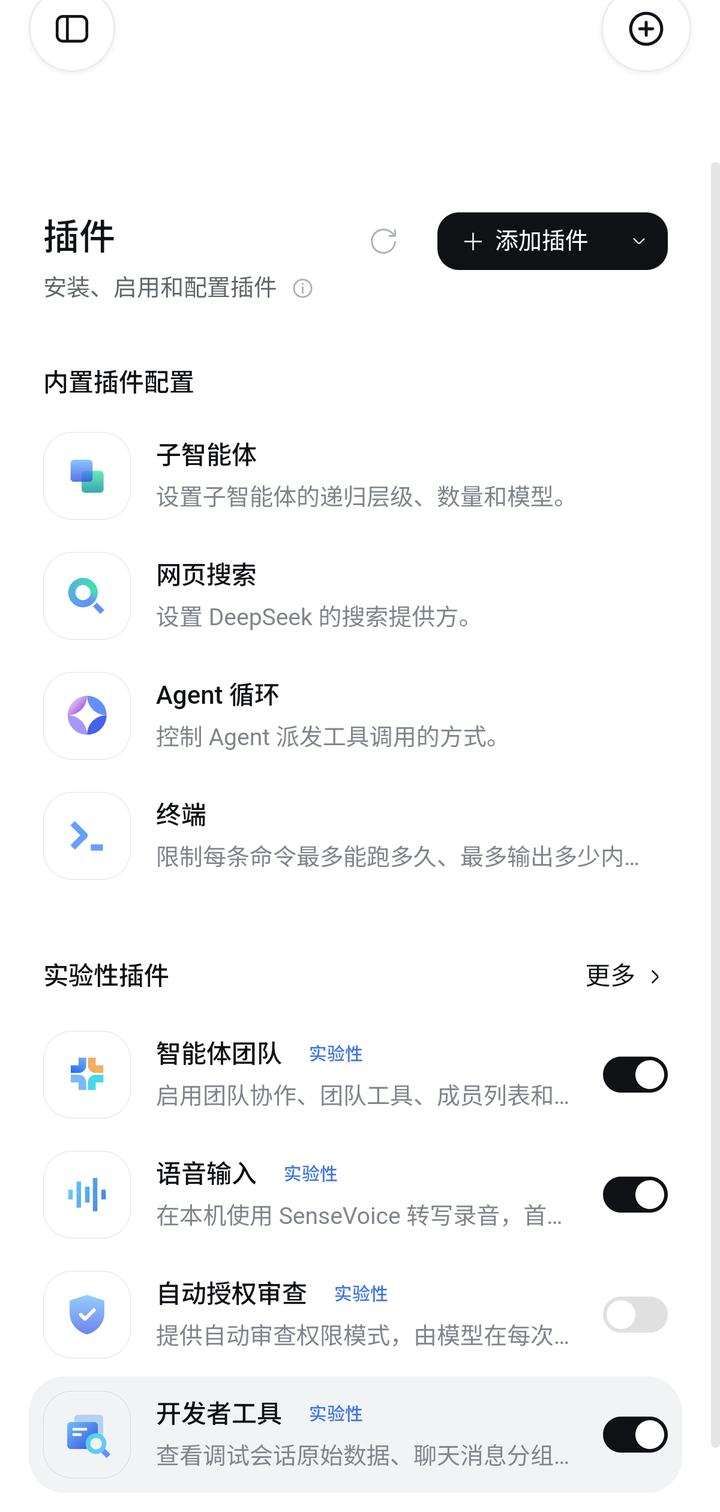
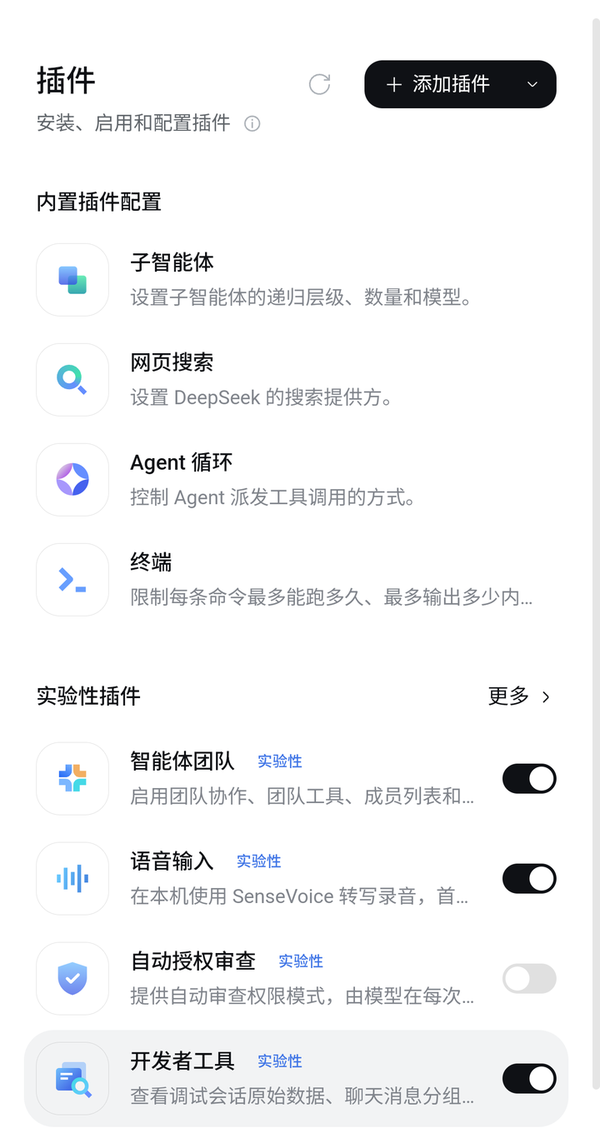
README: two matching screenshots, table layout

diff --git a/README.md b/README.md
@@ -59,17 +59,16 @@ DeepSeek Harness 是一个把大模型能力、文件操作、命令执行、任
 
 ## 界面
 
-<div align="center">
-
-<img src="docs/screenshots/home.png" height="430" alt="欢迎页" />
-<img src="docs/screenshots/plugins.png" height="430" alt="插件" />
-<img src="docs/screenshots/drawer.png" height="430" alt="侧栏" />
-
-</div>
-
-**左**：打开应用的样子——标志、开场白、工作区与模式，输入框贴在底部。
-**中**：插件页。内置插件（子智能体、网页搜索、Agent 循环、终端）可以直接调参，实验性插件用开关启用。
-**右**：从左侧滑出的侧栏，新建会话、插件、自动化任务与工作区都在这里。
+<table>
+<tr>
+<td width="50%"><img src="docs/screenshots/home.png" width="100%" alt="欢迎页" /></td>
+<td width="50%"><img src="docs/screenshots/plugins.png" width="100%" alt="插件" /></td>
+</tr>
+<tr>
+<td align="center"><sub>打开应用：标志、开场白、工作区与模式，输入框贴底</sub></td>
+<td align="center"><sub>插件页：内置插件可调参，实验性插件用开关启用</sub></td>
+</tr>
+</table>
 
 ## 快速开始
 
